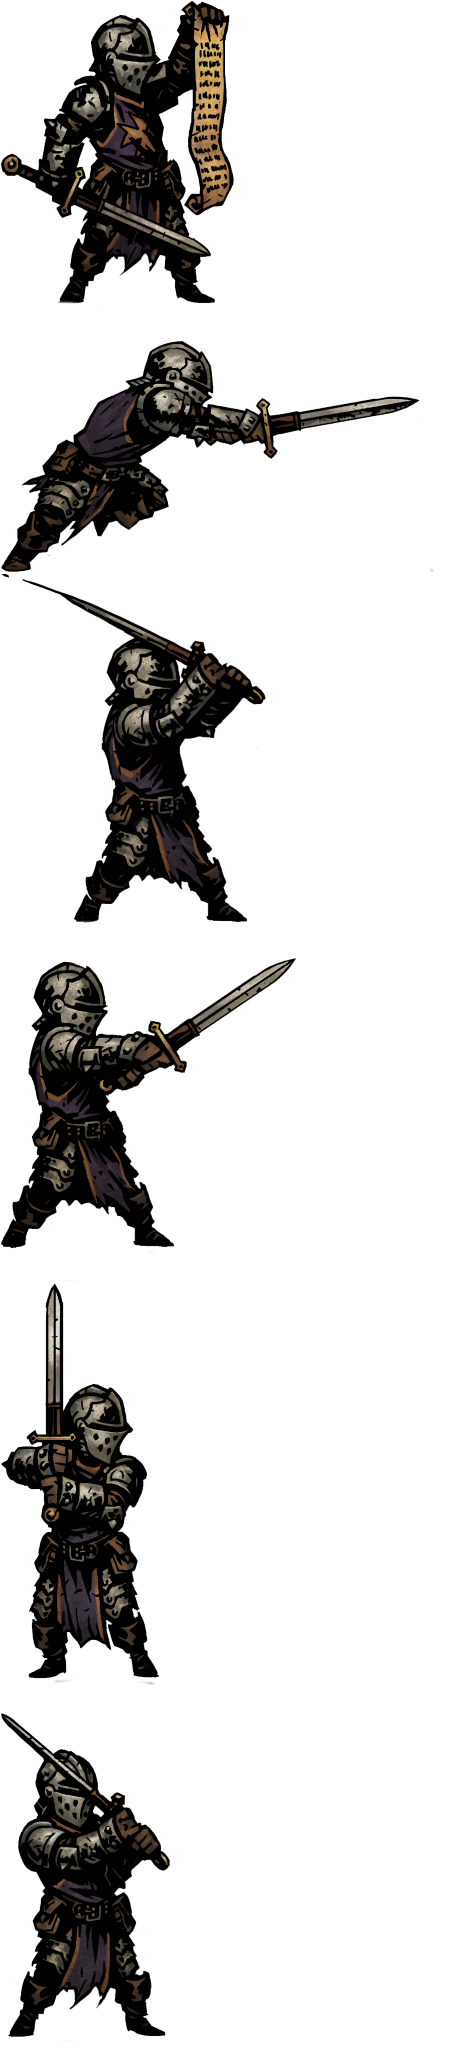
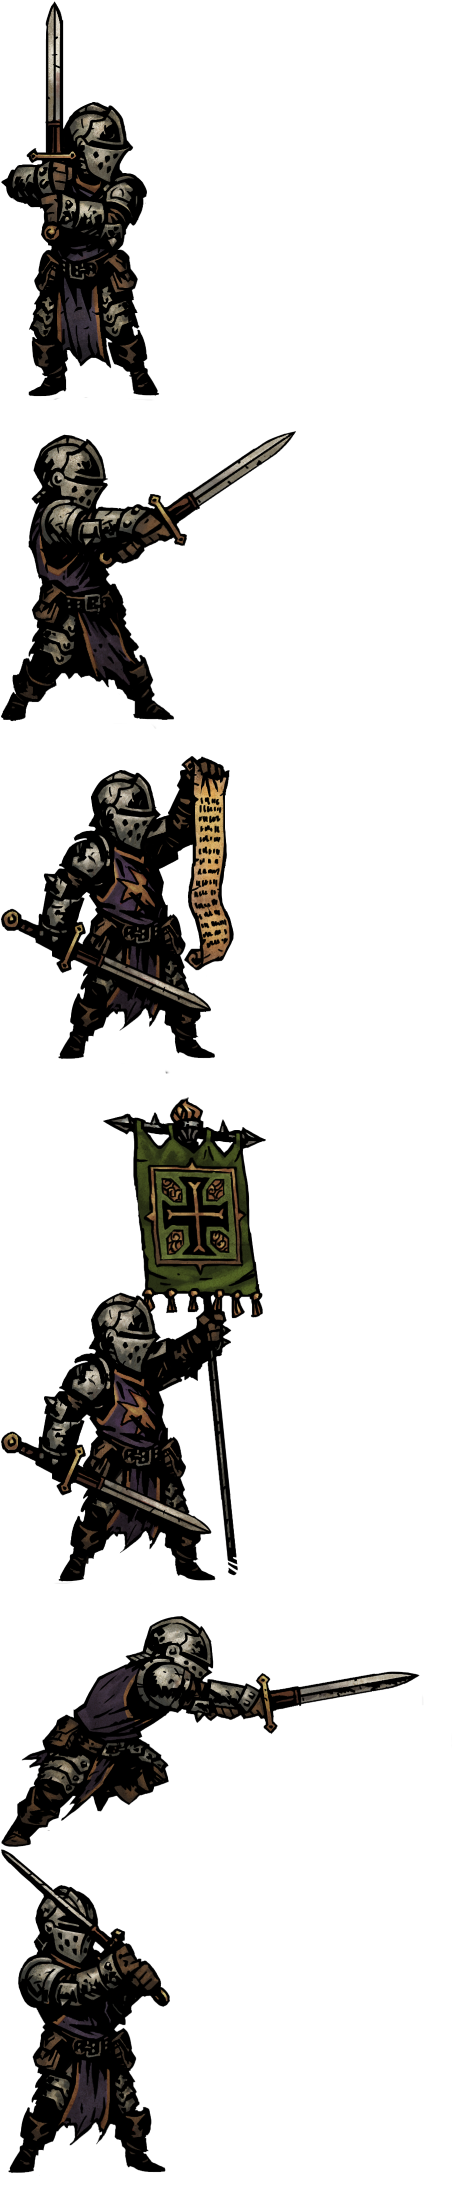
---

Changed region(s): [[0.0, 0.0, 0.9272, 0.9937]]

diff --git a/A-dark-castle/heroes.cpp b/A-dark-castle/heroes.cpp
@@ -16,22 +16,24 @@ void InitHeroCrusader(Structheroes& hero, vector<string> file)
 	hero.battle.attack4.setTexture(hero.battle.texture);
 	hero.battle.get_damage.setTexture(hero.battle.texture);
 
-	hero.battle.stay.setTextureRect(IntRect(0, 1282, 180, 430));
-	hero.battle.attack1.setTextureRect(IntRect(0, 0, 235, 340));
-	hero.battle.attack2.setTextureRect(IntRect(0, 340, 453, 233));
-	hero.battle.attack3.setTextureRect(IntRect(0, 573, 267, 384));	
-	hero.battle.attack4.setTextureRect(IntRect(0, 957, 287, 325));
-	hero.battle.get_damage.setTextureRect(IntRect(0, 1712, 181, 361));
+	hero.battle.stay.setTextureRect(IntRect(0, 0, 181, 430));
+	hero.battle.attack1.setTextureRect(IntRect(0, 430, 297, 325));
+	hero.battle.attack2.setTextureRect(IntRect(0, 755, 235, 340));
+	hero.battle.attack3.setTextureRect(IntRect(0, 1095, 267, 520));	
+	hero.battle.attack4.setTextureRect(IntRect(0, 1615, 453, 233));
+	hero.battle.get_damage.setTextureRect(IntRect(0, 1848, 181, 361));
 
 	hero.battle.stay.setOrigin(0, 430);
-	hero.battle.attack1.setOrigin(0, 340);
-	hero.battle.attack2.setOrigin(0, 233);
-	hero.battle.attack3.setOrigin(0, 384);
-	hero.battle.attack4.setOrigin(0, 325);
+	hero.battle.attack1.setOrigin(0, 325);
+	hero.battle.attack2.setOrigin(0, 340);
+	hero.battle.attack3.setOrigin(0, 520);
+	hero.battle.attack4.setOrigin(0, 233);
 	hero.battle.get_damage.setOrigin(0, 361);
-	//image.loadFromFile(file[1]);
-	//texture.loadFromImage(image);
-	//hero.battle.batle_icon.setTexture(texture);
+	hero.battle.image_perks.loadFromFile(file[1]);
+	hero.battle.texture_perks.loadFromImage(hero.battle.image_perks);
+	hero.battle.ability.setTexture(hero.battle.texture_perks);
+	hero.battle.batle_icon.setTexture(hero.battle.texture_perks);
+	hero.battle.batle_icon.setTextureRect(IntRect(415, 190, 85, 85));
 	hero.stats.max_hp = hero.stats.hp = 60;
 	hero.stats.def = 1;
 	hero.stats.damage = 0.5;
@@ -51,8 +53,8 @@ void InitHeroRogue(Structheroes& hero, vector<string> file)
 	hero.battle.stay.setTextureRect(IntRect(0, 0, 201, 306));
 	hero.battle.attack1.setTextureRect(IntRect(0, 306, 349, 300));	
 	hero.battle.attack2.setTextureRect(IntRect(0, 606, 324, 268));	
-	hero.battle.attack3.setTextureRect(IntRect(0, 892, 349, 300));
-	hero.battle.attack4.setTextureRect(IntRect(0, 192, 342, 236));
+	hero.battle.attack3.setTextureRect(IntRect(0, 874, 349, 300));
+	hero.battle.attack4.setTextureRect(IntRect(0, 1174, 342, 236));
 	hero.battle.get_damage.setTextureRect(IntRect(0, 1410, 202, 282));
 
 	hero.battle.stay.setOrigin(0, 306);
@@ -62,9 +64,11 @@ void InitHeroRogue(Structheroes& hero, vector<string> file)
 	hero.battle.attack4.setOrigin(0, 236);
 	hero.battle.get_damage.setOrigin(0, 282);
 
-	//image.loadFromFile(file[1]);
-	//texture.loadFromImage(image);
-	//hero.battle.batle_icon.setTexture(texture);
+	hero.battle.image_perks.loadFromFile(file[1]);
+	hero.battle.texture_perks.loadFromImage(hero.battle.image_perks);
+	hero.battle.ability.setTexture(hero.battle.texture_perks);
+	hero.battle.batle_icon.setTexture(hero.battle.texture_perks);
+	hero.battle.batle_icon.setTextureRect(IntRect(415, 190, 85, 85));
 	hero.stats.max_hp = hero.stats.hp = 40;
 	hero.stats.def = 0.25;
 	hero.stats.damage = 1.5;
@@ -94,9 +98,11 @@ void InitHeroWizard(Structheroes& hero, vector<string> file)
 	hero.battle.attack4.setOrigin(0, 259);
 	hero.battle.get_damage.setOrigin(0, 298);
 
-	//image.loadFromFile(file[1]);
-	//texture.loadFromImage(image);
-	//hero.battle.batle_icon.setTexture(texture);
+	hero.battle.image_perks.loadFromFile(file[1]);
+	hero.battle.texture_perks.loadFromImage(hero.battle.image_perks);
+	hero.battle.ability.setTexture(hero.battle.texture_perks);
+	hero.battle.batle_icon.setTexture(hero.battle.texture_perks);
+	hero.battle.batle_icon.setTextureRect(IntRect(415, 190, 85, 85));
 	hero.stats.max_hp = hero.stats.hp = 30;
 	hero.stats.def = 0.5;
 	hero.stats.damage = 0.5;
@@ -125,9 +131,11 @@ void InitHeroMage(Structheroes& hero, vector<string> file)
 	hero.battle.attack4.setOrigin(0, 408);
 	hero.battle.get_damage.setOrigin(0, 311);
 
-	//image.loadFromFile(file[1]);
-	//texture.loadFromImage(image);
-	//hero.battle.batle_icon.setTexture(texture);
+	hero.battle.image_perks.loadFromFile(file[1]);
+	hero.battle.texture_perks.loadFromImage(hero.battle.image_perks);
+	hero.battle.ability.setTexture(hero.battle.texture_perks);
+	hero.battle.batle_icon.setTexture(hero.battle.texture_perks);
+	hero.battle.batle_icon.setTextureRect(IntRect(415, 190, 85, 85));
 	hero.stats.max_hp = hero.stats.hp = 30;
 	hero.stats.def = 0.5;
 	hero.stats.damage = 0.5;
@@ -135,13 +143,13 @@ void InitHeroMage(Structheroes& hero, vector<string> file)
 
 void InitHeroes(StructAllHeroes& all_heroes)
 {
-	vector<string> files = { "../images/heroes/crusader/attack.png", "../images/heroes/crusader/icon.png" };
+	vector<string> files = { "../images/heroes/crusader/attack.png", "../images/heroes/crusader/perks.png" };
 	InitHeroCrusader(all_heroes.cruasder, files);
-	files = { "../images/heroes/rogue/battle.png", "../images/heroes/crusader/icon.png" };
+	files = { "../images/heroes/rogue/battle.png", "../images/heroes/rogue/perks.png" };
 	InitHeroRogue(all_heroes.rogue, files);
-	files = { "../images/heroes/wizard/battle.png", "../images/heroes/crusader/icon.png" };
+	files = { "../images/heroes/wizard/battle.png", "../images/heroes/wizard/perks.png" };
 	InitHeroWizard(all_heroes.wizard, files);
-	files = { "../images/heroes/mage/battle.png", "../images/heroes/crusader/icon.png" };
+	files = { "../images/heroes/mage/battle.png", "../images/heroes/mage/perks.png" };
 	InitHeroMage(all_heroes.mage, files);
 }
 
@@ -319,12 +327,12 @@ bool AttackModeCrusader(StructAllHeroes& all_heroes, StructEnemy enemy[4], int& 
 	}
 	else if (key_attack == 4)
 	{
-		return true;
 		all_heroes.cruasder.battle.batle_sprite = all_heroes.cruasder.battle.attack4;
 		if (enemy[0].hp != 0)
 			enemy[0].battle_sprite = enemy[0].get_damage;
 		attack_cruasder.Attack4(all_heroes.cruasder, enemy[0]);
 		key_attack = 0;
+		return true;
 	}
 	return false;
 }

diff --git a/A-dark-castle/heroes.h b/A-dark-castle/heroes.h
@@ -43,6 +43,8 @@ struct Structheroes
 	{
 		Image image;
 		Texture texture;
+		Image image_perks;
+		Texture texture_perks;
 		Vector2f heroesPosition;
 		struct StructAction
 		{
@@ -60,7 +62,7 @@ struct Structheroes
 		Sprite die;
 		Sprite batle_sprite;
 		Sprite batle_icon;
-		Sprite image_ability;
+		Sprite ability;
 	} battle;
 	struct StructExploration
 	{
